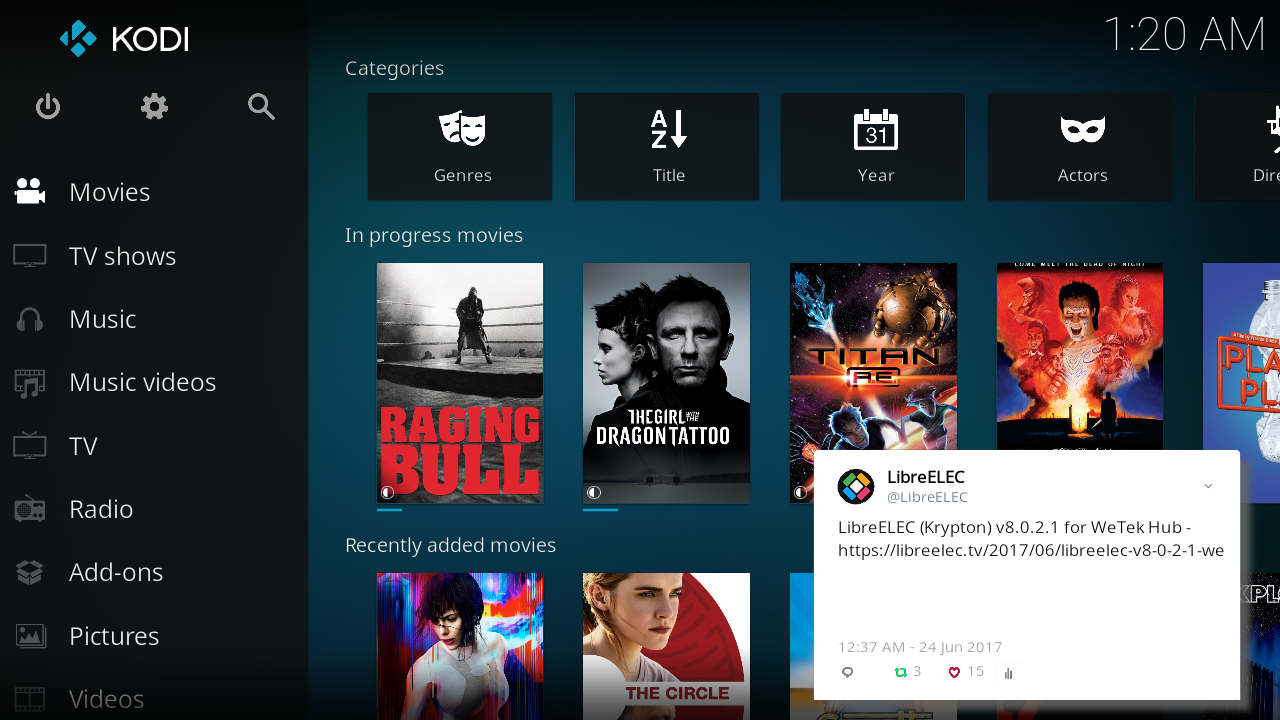
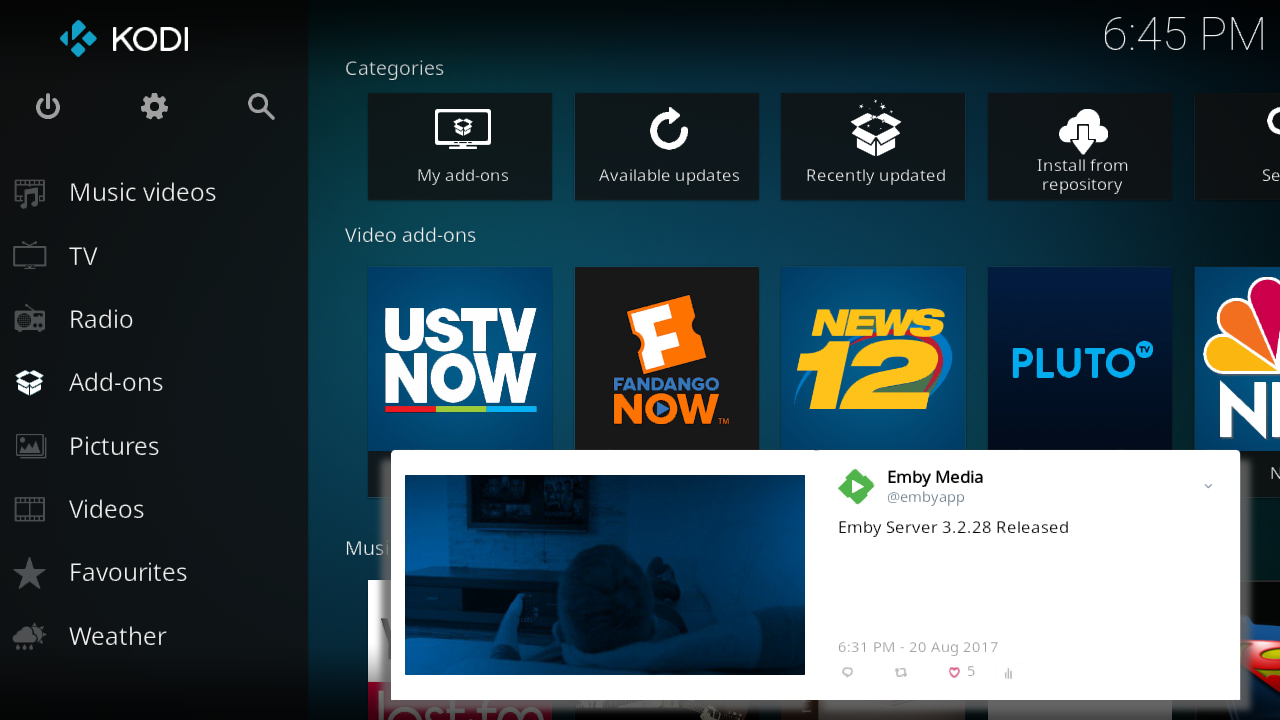
[script.twittertweets] 1.0.3
[script.twittertweets] 1.0.3

diff --git a/script.twittertweets/service.py b/script.twittertweets/service.py
@@ -16,7 +16,7 @@
 # You should have received a copy of the GNU General Public License
 # along with Twitter Tweets.  If not, see <http://www.gnu.org/licenses/>.
 
-import os, gui, datetime, random, urllib2, re
+import os, gui, time, datetime, random, urllib2, re
 import xbmc, xbmcaddon, xbmcgui, traceback
 
 from bs4 import BeautifulSoup
@@ -58,34 +58,76 @@ def setProperty(str1, str2):
 def clearProperty(str):
     xbmcgui.Window(10000).clearProperty((str))
    
-class Service():
+class Monitor(xbmc.Monitor):
+    def __init__(self, *args, **kwargs):
+        self.pendingChange = False
+
+        
+    def onSettingsChanged(self):
+        log('onSettingsChanged')
+        self.pendingChange = True
+
+        
+class Service(object):
     def __init__(self):
         log('__init__')
-        self.myService = xbmc.Monitor()
-        self.start()
+        self.myMonitor = Monitor()
+        self.startService()
         
         
-    def start(self):
-        while not self.myService.abortRequested():
-            self.userList = []
-            for i in range(1,51):
-                self.userList.append((REAL_SETTINGS.getSetting('FEED%d'%i)).replace('@',''))
-            self.userList = filter(None, self.userList)
-            log('userList = ' + str(self.userList))
-
-            WAIT_TIME = [300,600,900,1800][int(REAL_SETTINGS.getSetting('Wait_Time'))]
-            IGNORE    = REAL_SETTINGS.getSetting('Not_While_Playing') == 'true'
-            if xbmc.Player().isPlayingVideo() == True and IGNORE == True:
-                self.myService.waitForAbort(WAIT_TIME)
-                continue
-                
-            for user in self.userList:
-                self.chkFEED(user)
-                
-            if self.myService.waitForAbort(WAIT_TIME) == True:
+    def startService(self):
+        log('startService')
+        self.checkSettings()
+        while not self.myMonitor.abortRequested():
+            if self.myMonitor.pendingChange == True or self.myMonitor.waitForAbort(self.wait) == True:
+                log('startService, waitForAbort/pendingChange')
                 break
 
+            # Dont run while playing.
+            if xbmc.Player().isPlayingVideo() == True and self.ignore == True:
+                log('start, ignore during playback')
+                self.myMonitor.waitForAbort(1)
+                continue
                 
+            # Don't run while setting menu is opened.
+            if xbmcgui.getCurrentWindowDialogId() in [10140,10103]:
+                log('start, settings dialog opened')
+                self.myMonitor.waitForAbort(1)
+                continue
+
+            for user in self.userList:
+                if self.myMonitor.pendingChange == True or self.myMonitor.waitForAbort(1) == True:
+                    break
+                self.chkFEED(user)
+                
+        if self.myMonitor.pendingChange == True:
+            xbmc.executebuiltin("Notification(%s, %s, %d, %s)" % (ADDON_NAME, LANGUAGE(30012), 4000, ICON))
+            self.restartService()
+            
+        
+    def restartService(self):
+        log('restartService')
+        #adapted from advised method https://forum.kodi.tv/showthread.php?tid=248758
+        xbmc.sleep(500)
+        xbmc.executeJSONRPC('{"jsonrpc": "2.0", "method":"Addons.SetAddonEnabled","params":{"addonid":"%s","enabled":false}, "id": 1}'%(ADDON_ID))
+        xbmc.sleep(500)
+        xbmc.executeJSONRPC('{"jsonrpc": "2.0", "method":"Addons.SetAddonEnabled","params":{"addonid":"%s","enabled":true}, "id": 1}'%(ADDON_ID))
+            
+                
+    def checkSettings(self):
+        self.wait = [300,600,900,1800][int(REAL_SETTINGS.getSetting('Wait_Time'))]
+        self.ignore = REAL_SETTINGS.getSetting('Not_While_Playing') == 'true'
+        self.incRetweets = REAL_SETTINGS.getSetting('Include_Retweets') == 'true'
+        userList = []
+        for i in range(1,51):
+            userList.append((REAL_SETTINGS.getSetting('FEED%d'%i)).replace('@',''))
+        self.userList = filter(None, userList)
+        self.myMonitor.pendingChange = False
+        log('checkSettings, ignore = '   + str(self.ignore))
+        log('checkSettings, wait = '     + str(self.wait))
+        log('checkSettings, userList = ' + str(self.userList))
+        
+
     def testString(self):
         ''' 
         gen. 140char mock sentence for skin test
@@ -97,38 +139,53 @@ class Service():
         
 
     def cleanString(self, string):
-        return re.sub(r"http\S+", "", string)
+        string = re.sub(r"http\S+", "", string)
+        string = re.sub(r"pic.twitter.com", "", string)
+        return string
+        
+        
+    def correctTime(self, tweetTime):
+        log('correctTime, IN tweetTime = '+ tweetTime)
+        tweetTime = datetime.datetime.strptime(tweetTime, '%I:%M %p - %d %b %Y')
+        is_dst = time.daylight and time.localtime().tm_isdst > 0
+        utc_offset = + (time.altzone if is_dst else time.timezone)
+        td_local = tweetTime + datetime.timedelta(seconds=utc_offset-3600)
+        tweetTime = td_local.strftime('%I:%M %p - %d %b %Y').lstrip('0')
+        log('correctTime, OUT tweetTime = '+ tweetTime)
+        return tweetTime
         
         
     def chkFEED(self, user):
-        log('chkFEED, user='+user)
+        log('chkFEED, user = '+user)
         try:
-            soup       = BeautifulSoup(urllib2.urlopen(BASE_URL+user).read(), "html.parser")
-            twitterPic = soup('img' , {'class': 'ProfileAvatar-image'})[0].attrs['src']
-            twitterAlt = soup('img' , {'class': 'ProfileAvatar-image'})[0].attrs['alt']
-            tweetTimes = soup('a'   , {'class': 'tweet-timestamp js-permalink js-nav js-tooltip'})
-            tweetMsgs  = soup('p'   , {'class': 'TweetTextSize TweetTextSize--normal js-tweet-text tweet-text'})
-            tweetStats = soup('span', {'class': 'ProfileTweet-actionCountForAria'})
-            twitterVer = False #todo
+            soup        = BeautifulSoup(urllib2.urlopen(BASE_URL+user).read(), "html.parser")
+            twitterPic  = soup('img' , {'class': 'ProfileAvatar-image'})[0].attrs['src']
+            twitterAlt  = soup('img' , {'class': 'ProfileAvatar-image'})[0].attrs['alt']
+            twitterVer  = True if soup.find(href='/help/verified') else False
+            tweetTimes  = soup('a'   , {'class': 'tweet-timestamp js-permalink js-nav js-tooltip'})
+            tweetMsgs   = soup('div' , {'class': 'js-tweet-text-container'})
+            tweetAtts   = soup('div' , {'class': 'AdaptiveMediaOuterContainer'})
+            tweetStats  = soup('span', {'class': 'ProfileTweet-actionCountForAria'})
+            twitterPin  = len(soup('span' , {'class': 'js-pinned-text'})) > 0
 
-            #find latest tweet from user, ignore retweets.
             for idx, item in enumerate(tweetTimes):
-                if user.lower() in item.attrs['href'].lower():
-                    break
-                    
-            for idx, item in enumerate(tweetTimes):
-                if user.lower() in item.attrs['href'].lower():
-                    break
-                    
-            tweetTime  = tweetTimes[idx]["title"].encode("utf-8")
-            tweetMsg   = self.cleanString(tweetMsgs[idx].get_text().encode("utf-8"))
+                if idx == 0 and twitterPin == True and user.lower() in item.attrs['href'].lower(): continue
+                elif self.incRetweets == True: break
+                elif user.lower() in item.attrs['href'].lower(): break
+            try:
+                tmpAttach   = tweetMsgs[idx]('a', {'class': 'twitter-timeline-link u-hidden'})[0].get_text()
+                tweetAttach = tweetAtts[idx].find('img').attrs['src'] if tmpAttach.startswith('pic.twitter.com') else 'NA.png'
+            except:
+                tweetAttach = 'NA.png'
+            tweetTime  = self.correctTime(tweetTimes[idx]["title"].encode("utf-8"))
+            tweetMsg   = self.cleanString((tweetMsgs[idx]('p' , {'class': 'TweetTextSize TweetTextSize--normal js-tweet-text tweet-text'})[0].get_text()).encode("utf-8"))
             tweetStats = [stat.get_text().encode("utf-8") for stat in tweetStats]
             tweetStats = [tweetStats[x:x+3] for x in xrange(0, len(tweetStats), 3)]
             tweetStats = tweetStats[idx]
-            
-            if REAL_SETTINGS.getSetting('%s.%s.time' %(ADDON_ID,user)) != tweetTime:
-                REAL_SETTINGS.setSetting('%s.%s.time'%(ADDON_ID,user),tweetTime)
-                ui = gui.GUI("%s.default.xml" %ADDON_ID,ADDON_PATH,"default",params=({'user':user,'icon':twitterPic,'username':twitterAlt,'title':tweetMsg,'time':tweetTime,'stats':tweetStats,'verified':twitterVer}))
+
+            if getProperty('%s.%s.time' %(ADDON_ID,user)) != tweetTime:
+                setProperty('%s.%s.time'%(ADDON_ID,user),tweetTime)
+                ui = gui.GUI("%s.default.xml" %ADDON_ID,ADDON_PATH,"default",params=({'user':user,'attachment':tweetAttach,'icon':twitterPic,'username':twitterAlt,'title':tweetMsg,'time':tweetTime,'stats':tweetStats,'verified':twitterVer}))
                 ui.doModal()
         except Exception,e:
             log('chkFEED, failed! ' + str(e))

diff --git a/script.twittertweets/gui.py b/script.twittertweets/gui.py
@@ -30,6 +30,7 @@ SETTINGS_LOC   = REAL_SETTINGS.getAddonInfo('profile').decode('utf-8')
 ## GLOBALS ##
 DEBUG      = REAL_SETTINGS.getSetting('Enable_Debugging') == 'true'
 CLOSE_TIME = [2.0,5.0,10.0,15.0][int(REAL_SETTINGS.getSetting('Close_Time'))]
+ATTACHMENT = REAL_SETTINGS.getSetting('Enable_Attachment') == 'true'
 
 def log(msg, level=xbmc.LOGDEBUG):
     if DEBUG == True:
@@ -40,6 +41,7 @@ def log(msg, level=xbmc.LOGDEBUG):
 class GUI(xbmcgui.WindowXMLDialog):
     def __init__(self, *args, **kwargs ):
         self.params     = kwargs['params']
+        log('params = ' + str(self.params))
         self.lockAction = False
         self.closeTimer = threading.Timer(CLOSE_TIME, self.close)
     
@@ -61,10 +63,20 @@ class GUI(xbmcgui.WindowXMLDialog):
         self.getControl(30103).setColorDiffuse('FF00ff7d' if retweets > 0 else 'FF999999')
         self.getControl(30102).setColorDiffuse('FF1dcaff' if replies  > 0 else 'FF999999')
         self.getControl(30101).setImage(self.params['icon'])
-        xbmc.sleep(100) #give image time to cache.
+        x, y = self.getControl(30105).getPosition()
+        self.getControl(30113).setPosition(x+(len(self.params['username'])*15),y)
+        self.getControl(30113).setVisible(self.params['verified'])
+
+        if len(self.params['attachment']) > 0 and self.params['attachment'] != 'NA.png' and ATTACHMENT == True:
+            self.getControl(30112).setImage(self.params['attachment'])
+        else:
+            self.getControl(30112).setVisible(False)
+            
+        xbmc.sleep(10)   #give image time to cache.
         self.getControl(30100).setVisible(True)
-        self.lockAction = False
         self.closeTimer.start()
+        xbmc.sleep(1500) #lock action.
+        self.lockAction = False
         
         
     def onAction(self, action):

diff --git a/script.twittertweets/README.md b/script.twittertweets/README.md
@@ -14,3 +14,5 @@ Control(30108) - Time
 Control(30109) - # of Replies
 Control(30110) - # of Retweets
 Control(30111) - # of Likes
+Control(30112) - Optional Picture attachement
+Control(30113) - Twitter Verified Badge
